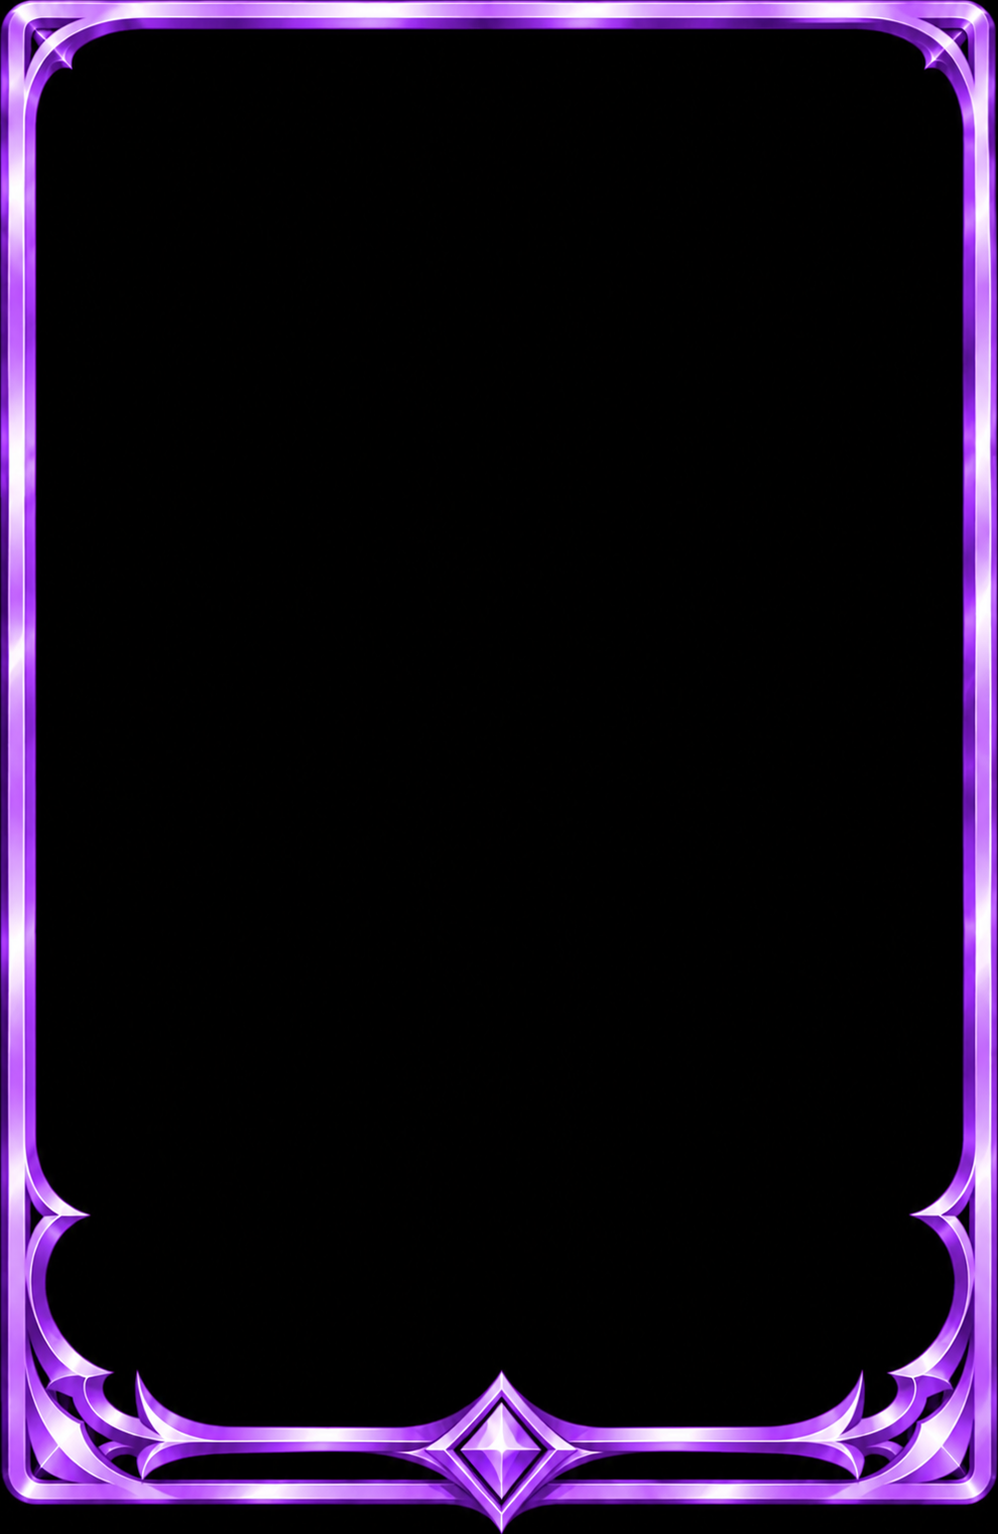
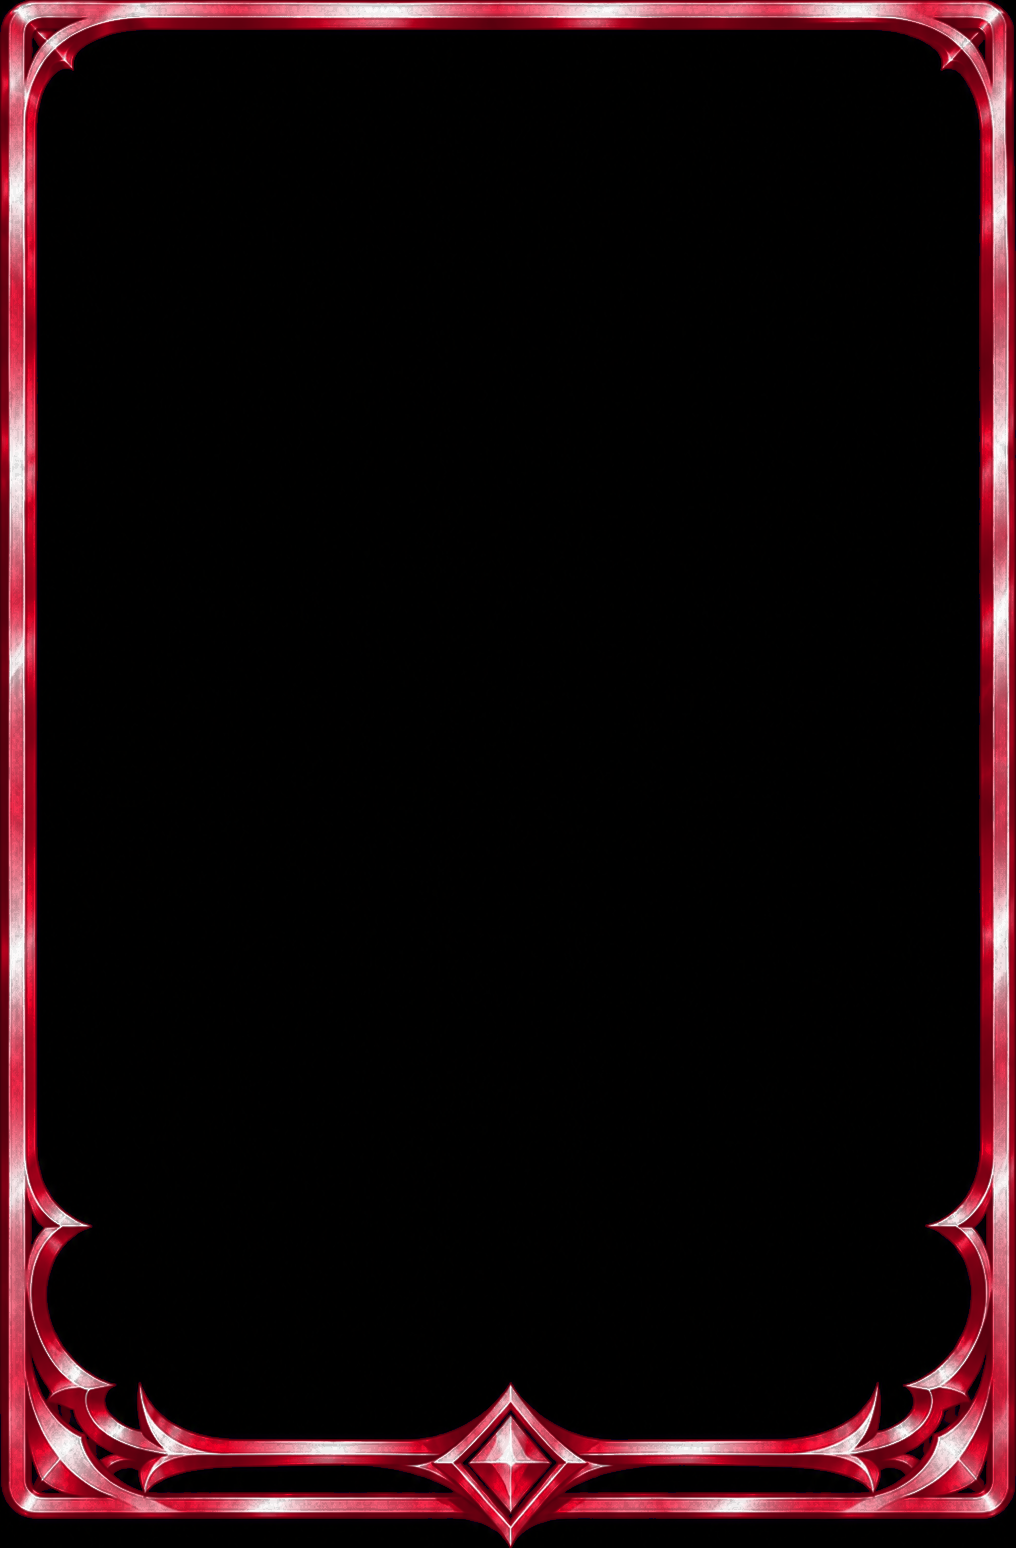
Khung phép chậm đỏ rượu vang (khung 2), thêm bản không mana
Claude-Session: https://claude.ai/code/session_01XgSG6ZHpn2vMFo1N6yb51c

Changed region(s): [[0.0, 0.0, 1.0, 1.0]]

diff --git a/src/lib/updates.ts b/src/lib/updates.ts
@@ -888,6 +888,7 @@ export const PENDING_NOTES: string[] = [
   "Lá phản ứng dùng được phát glow bám theo hình lá và thở, không còn viền vuông.",
   "Đánh vào bên có Gương phòng hộ đứng sẵn: đòn vào hàng chờ như thường, bấm X là huỷ, bấm xác nhận gương mới dựng lên.",
   "Thiếu sao mà cố triệu hồi quái 3 lần thì hiện gợi ý một lần: vùng liên quan sáng lên, nói rõ cần bao nhiêu mana trong mộ. Bấm >> để đóng. Bấm mộ mana hoặc ô sao thì thấy còn bao nhiêu mana nữa tới sao kế.",
+  "Phép chậm đổi khung sang đỏ rượu vang, kim loại bóng như các khung khác.",
 ];
 
 function remarkOf(notes: string[]) {

diff --git a/TIEP-TUC.md b/TIEP-TUC.md
@@ -658,3 +658,4 @@ Chủ game trả lời (29/10), CHƯA LÀM gì, chờ "ok" và trả lời câu 
 - V1/V2/V3 + GLOW PHẢN ỨNG LẦN 2 03/11 (chủ game "làm như ý bạn"; Sonnet medium, nhánh `ccr-35f3cdfd-q9c3rl`, CHƯA áp `main`, CHƯA chụp bằng mắt, tsc 7 lỗi cũ, round-rules 47/47): V1 `.slot.is-snap` neon dày + quầng lớn, đứng yên; V2 `snapAt` (play.tsx) kéo triệu hồi bỏ lối tắt "ngón trên ô" nên chỉ nhích hướng là đổi ô (đèn pin), ô snap ngọc bích đứng yên; V3 `summon-breathe` phồng 1,07, 1,2 giây, glow mạnh, TRẢ nền cam `is-open` như cũ; `.is-alert` (lá tay, xấp, ô sân) bỏ outline, glow drop-shadow bám lá thở `react-breathe`. Selector xấp (`.face-pile.is-alert > img/.deck-pile`) CHƯA kiểm. V4 Gương chờ Opus high, V5 chờ chủ game.
 - V4 GƯƠNG PHÒNG HỘ ĐỨNG SẴN VÀO HÀNG CHỜ 03/11 (Opus high, nhánh `ccr-35f3cdfd-q9c3rl`, CHƯA áp `main`): lỗi = `beginHold` giữ quyền ở bên đánh khi gương đứng sẵn (`hold.mirror` "up"), nên `queueStep` (play.tsx) không xếp đòn vào hàng chờ: không có X, đòn gửi luôn. Sửa: `declared` nhận thêm `next.hold.mirror === "up"`. Luật lá không đổi. Thử Chromium (scratchpad `v4/mk.mjs`, `run.mjs`, trận Test, địch mirror 2): kéo đánh → X sáng + icon gương; X → bàn như cũ, gương còn 2; xếp lại → Xác nhận → OK → OK chủ gương → chặn, kẻ đánh còn nửa chỉ số, gương còn 2. round-rules 47/47, tsc 7 lỗi cũ. Chưa thử online 2 máy, đánh vào người chơi bằng mắt.
 - KHUNG GỢI Ý KHI GẶP VẤN ĐỀ 03/11 (chủ game, Sonnet medium, nhánh `ccr-35f3cdfd-q9c3rl`, CHƯA áp `main`): `src/components/game/hint-card.tsx` (`HintCard`: nền tối SVG mask, vùng sáng vàng theo selector, bảng nhỏ gần vùng, chữ cam nhấp nhô `.hint-text`, nút >>, tự tắt `HINT_MS` 8 giây) + `src/lib/hints.ts` (`countHint(id)`: lặp `HINT_AFTER` 3 lần mới hiện, mỗi gợi ý 1 lần, kho `clash-hints`; `resetHints`, nút "Đặt lại gợi ý" trong Cài đặt cho nhà phát hành). play.tsx `stuckHint("draw" | "stars")` (chỉ Vs Máy/online, không Hướng dẫn/Thực chiến/Test/replay): A đầu trận = chưa rút bài mà thiếu đúng 1 sao (`needsDraw`) → vùng sáng xấp bài `.face-pile`; B giữa trận = thiếu sao khác → mộ mana + ô sao, "Quái x sao cần đủ T mana trong mộ để triệu hồi / Cần tiêu thêm y mana nữa" (T = cộng dồn `STAR_COST` 1,3,6,10, xuất khẩu từ duel.ts; `starPrice`). Bấm `youGems`/`youStars` (`.mark.is-tap`) → `starGapHint` "n(gem) → k★" mỗi lần bấm. Gợi ý khác (lời nhắc còn lại) chờ chủ game chọn. Thử Chromium Vs Máy thật (scratchpad `v4/real.mjs`): lần 3 hiện, đóng, lần 4 không hiện; bấm ô sao hiện bảng. B (thiếu ≥2 sao) chưa chụp.
+- KHUNG PHÉP CHẬM ĐỎ 03/11 (chủ game gửi 2 khung đỏ, chọn khung 2 theo phong cách bóng như các khung khác; Sonnet medium, nhánh `ccr-35f3cdfd-q9c3rl`, CHƯA áp `main`): `public/ui/spell-frame-slow.png` = khung 2 (1016×1548, có viên mana xanh); `spell-frame-slow-nogem.png` do Claude tự tạo (khung nhồi màu tím cũ đổi hue + khớp phân bố sáng theo khung 2, scratchpad `v4/nogem.py`), chưa phải ảnh chủ game gửi: có ảnh nogem đỏ thật thì thay. Khung 1 chỉ dùng chụp so sánh, không giữ. CHƯA đổi: giải trừ thành siêu tốc, khung siêu tốc trắng, màu vành skill (chờ chủ game duyệt ảnh mẫu và chốt (a)/(b) giải trừ).
